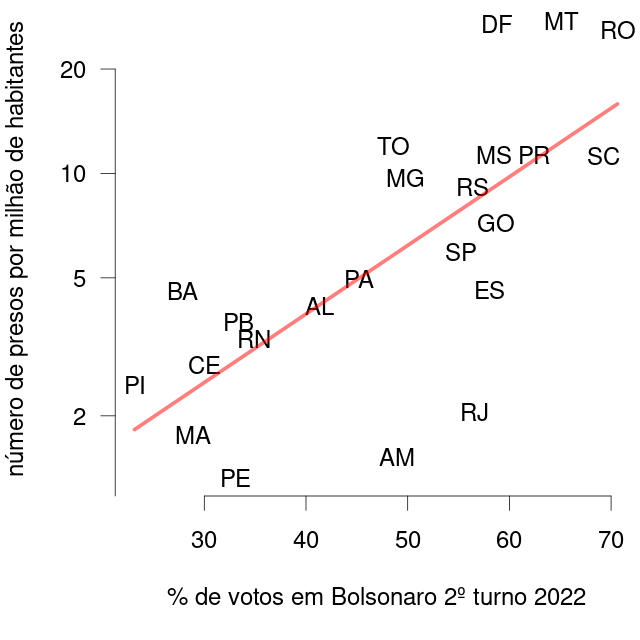
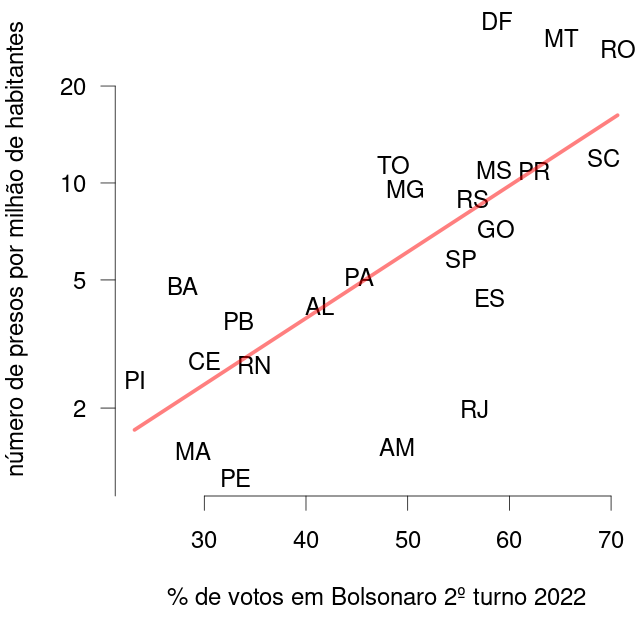
Update data and results for new listing from SEAPE-DF

diff --git a/README.md b/README.md
@@ -14,7 +14,7 @@ na [página da SEAPE-DF](https://seape.df.gov.br/prisoes-dos-atentados-bsb/), co
 
 ### Gênero
 
-A [lista atual](presos.csv), contém 1429 nomes. Esta lista não corresponde à ultima listagem disponibilizada pela SEAPE, que contém 935 nomes, na listagem publicada em 22 de março de 2023. Todos os nomes que figuravam nas listas previamente publicadas foram mantidos. Destas 1429 pessoas, 494 são mulheres e 935 são homens.
+A [lista atual](presos.csv), contém 1429 nomes. Esta lista não corresponde à ultima listagem disponibilizada pela SEAPE, que contém 1392 nomes, na listagem publicada em 31 de março de 2023. Todos os nomes que figuravam nas listas previamente publicadas foram mantidos. Destas 1429 pessoas, 494 são mulheres e 935 são homens.
 
 
 ### Idades
@@ -23,40 +23,40 @@ A distribuição de idades é mostrada no gráfico abaixo, com as pessoas agrupa
 
 ![figure](histograma-idades.png)
 
-A idade mínima é de 18,0 anos e a máxima de 74,7 anos. 66,2% das pessoas têm entre 40 e 60 anos e 35,3% deles têm entre 45 e 55 anos. Está claro que o grosso do contingente é formado por pessoas de meia idade.
+A idade mínima é de 18,0 anos e a máxima de 74,7 anos. 66,1% das pessoas têm entre 40 e 60 anos e 35,3% deles têm entre 45 e 55 anos. Está claro que o grosso do contingente é formado por pessoas de meia idade.
 
-A mediana de idade das mulheres é de 47,8 anos e a dos homens de 44,9 anos. A média de idade das mulheres é de 46,3 anos e a dos homens é de 43,8 anos. Esta diferença de idade de 2,5 anos entre homens e mulheres é estatisticamente significativa (_t_[1114.6] = 4.55, _p_ < 0.001).
+A mediana de idade das mulheres é de 47,8 anos e a dos homens de 44,9 anos. A média de idade das mulheres é de 46,3 anos e a dos homens é de 43,8 anos. Esta diferença de idade de 2,5 anos entre homens e mulheres é estatisticamente significativa (_t_[1117.5] = 4.60, _p_ < 0.001).
 
 Cabe observar que a faixa de idade com maior representatividade entre as mulheres é entre 50 e 55 anos.
 
 
 ## Procedência
 
-O número de pessoas por estado está indicado na tabela abaixo (a informação do estado de origem está ausente para 38 pessoas):
+O número de pessoas por estado está indicado na tabela abaixo (a informação do estado de origem está ausente para 36 pessoas):
 
 |estado|número de pessoas presas|porcentagem do total|presos/população|
 |-|-|-|-|
-|SP|273|19.6%|5.93|
-|MG|201|14.5%|9.69|
-|PR|134|9.6%|11.32|
-|MT|104|7.5%|27.48|
-|RS|101|7.3%|9.11|
-|SC|87|6.3%|11.21|
-|DF|79|5.7%|27.02|
-|BA|67|4.8%|4.57|
+|SP|267|19.2%|5.80|
+|MG|198|14.2%|9.55|
+|PR|129|9.3%|10.90|
+|MT|107|7.7%|28.28|
+|RS|99|7.1%|8.93|
+|DF|93|6.7%|31.81|
+|SC|93|6.7%|11.98|
+|BA|70|5.0%|4.78|
 |GO|50|3.6%|7.19|
-|PA|42|3.0%|4.97|
+|PA|43|3.1%|5.09|
 |RO|42|3.0%|25.98|
-|RJ|34|2.4%|2.05|
-|MS|32|2.3%|11.29|
+|RJ|33|2.4%|1.99|
+|MS|31|2.2%|10.94|
 |CE|25|1.8%|2.80|
-|ES|19|1.4%|4.62|
-|TO|19|1.4%|11.99|
+|ES|18|1.3%|4.38|
+|TO|18|1.3%|11.36|
 |PB|15|1.1%|3.72|
 |AL|13|0.9%|4.16|
-|MA|12|0.9%|1.76|
-|PE|12|0.9%|1.33|
-|RN|11|0.8%|3.33|
+|PE|11|0.8%|1.22|
+|MA|10|0.7%|1.47|
+|RN|9|0.6%|2.72|
 |PI|8|0.6%|2.45|
 |AM|6|0.4%|1.52|
 |AC|3|0.2%|3.62|
@@ -70,10 +70,9 @@ Jair Bolsonaro no segundo turno da eleição presidencial de
 
 ![figure](votos-bolsonaro-numero-presos.png)
 
-Neste gráfico, cada estado está representado pela sua sigla.
-Foram incluídos na análise os estados que apresentam número de presos maior do que 5, para efeitos de confiabilidade da análise. A população de cada estado corresponde àquela publicada pelo IBGS na [prévia do censo de 2022](https://ftp.ibge.gov.br/Censos/Censo_Demografico_2022/Previa_da_Populacao/POP2022_Municipios.pdf). Note que o eixo vertical do gráfico (número de presos) está em escala logarítmica, o que é adequado para variáveis de contagem. A correlação entre as duas variáveis é significativamente diferente de zero (_r_ = 0.72, _t_[21] = 4.75, _p_ < 0.001). A linha de regressão entre as duas variáveis está indicada em vermelho no gráfico.
+Neste gráfico, cada estado está representado pela sua sigla. Foram incluídos na análise os estados que apresentam número de presos maior do que 5, para efeitos de confiabilidade da análise. A população de cada estado corresponde àquela publicada pelo IBGS na [prévia do censo de 2022](https://ftp.ibge.gov.br/Censos/Censo_Demografico_2022/Previa_da_Populacao/POP2022_Municipios.pdf). Note que o eixo vertical do gráfico (número de presos) está em escala logarítmica, o que é adequado para variáveis de contagem. A correlação entre as duas variáveis é significativamente diferente de zero (_r_ = 0.72, _t_[21] = 4.73, _p_ < 0.001). A linha de regressão entre as duas variáveis está indicada em vermelho no gráfico.
 
-Note que a correlação acima é feita entre o resultado da eleição e o número de presos **dividido pela população do estado** e não o número de presos simplesmente. A razão para esta escolha é que o número de presos é correlacionada à população de cada estado (_r_ = 0.82, _t_[21] = 6.62, _p_ < 0.001). Isto faz com que a população do estado se torne uma variável de confusão no estudo. A normalização do número de presos pela população do estado minimiza este problema.
+Note que a correlação acima é feita entre o resultado da eleição e o número de presos **dividido pela população do estado** e não o número de presos simplesmente. A razão para esta escolha é que o número de presos é correlacionada à população de cada estado (_r_ = 0.81, _t_[21] = 6.25, _p_ < 0.001). Isto faz com que a população do estado se torne uma variável de confusão no estudo. A normalização do número de presos pela população do estado minimiza este problema.
 
 ### Código para esta análise
 
